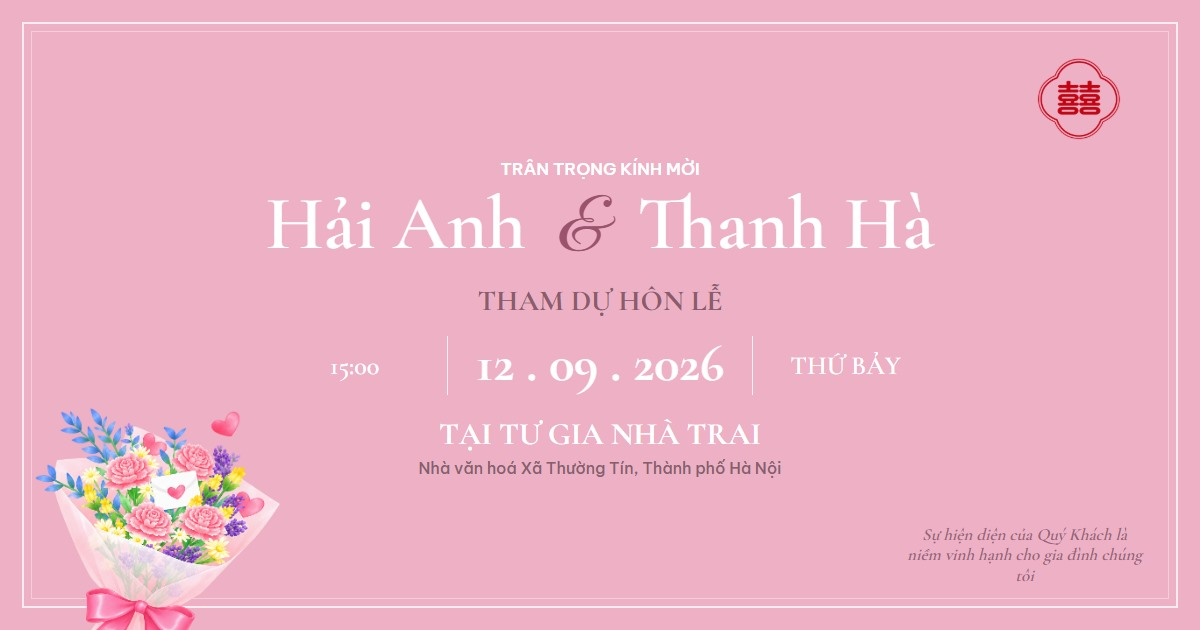
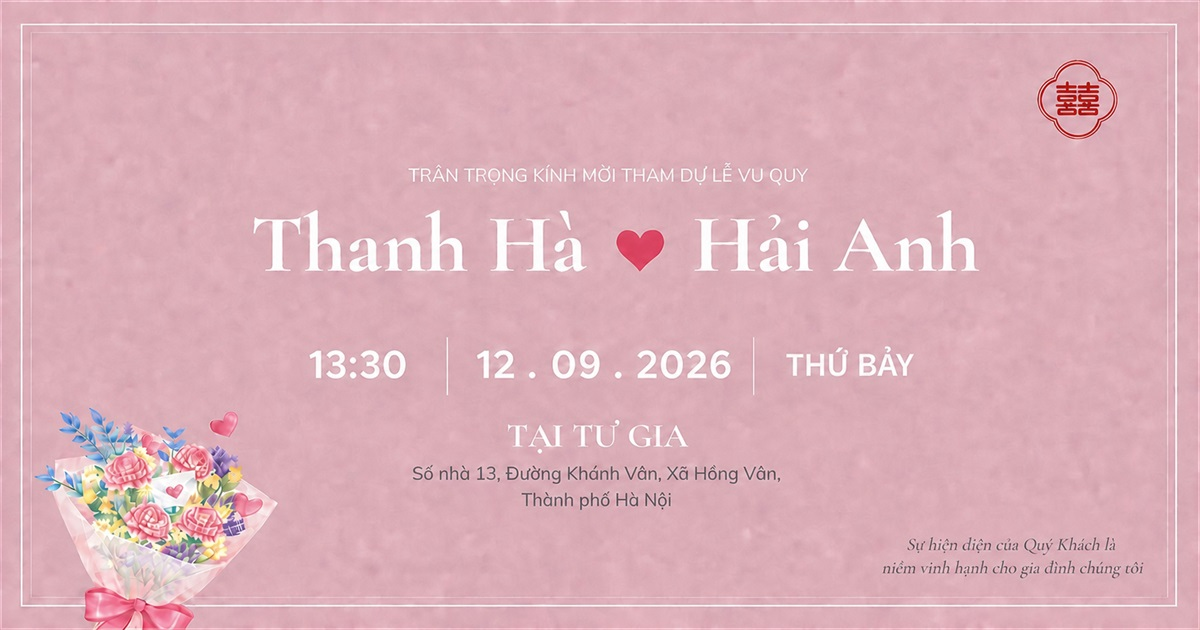
update

diff --git a/css/style.css b/css/style.css
@@ -1019,7 +1019,7 @@ button {
     margin-top: 0;
     color: #1f1b1c;
     font-size: 1.32rem;
-    font-weight: 500;
+    font-weight: 600;
     line-height: 1.58;
 }
 
